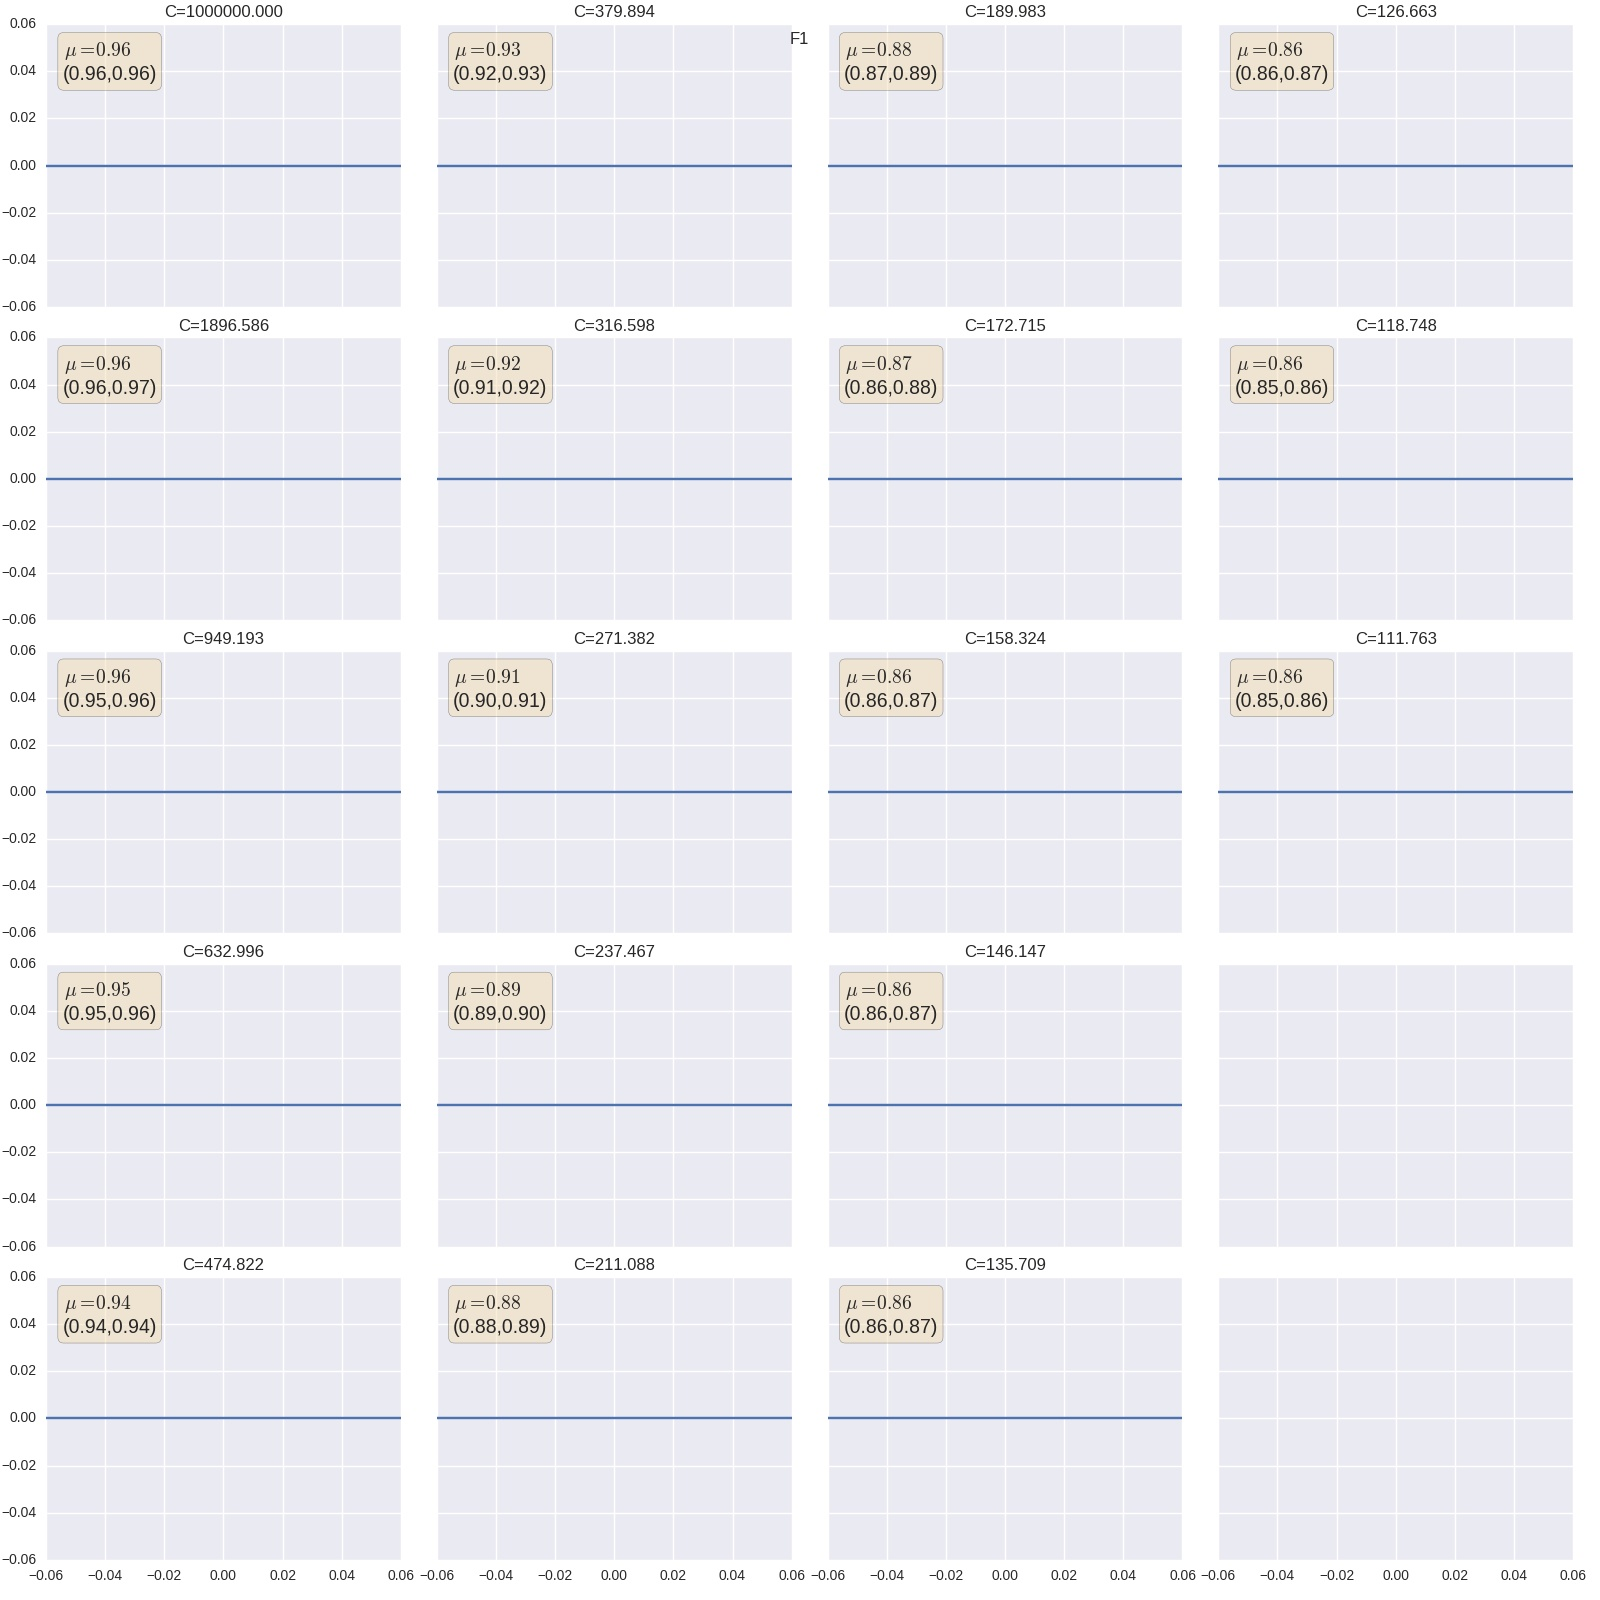
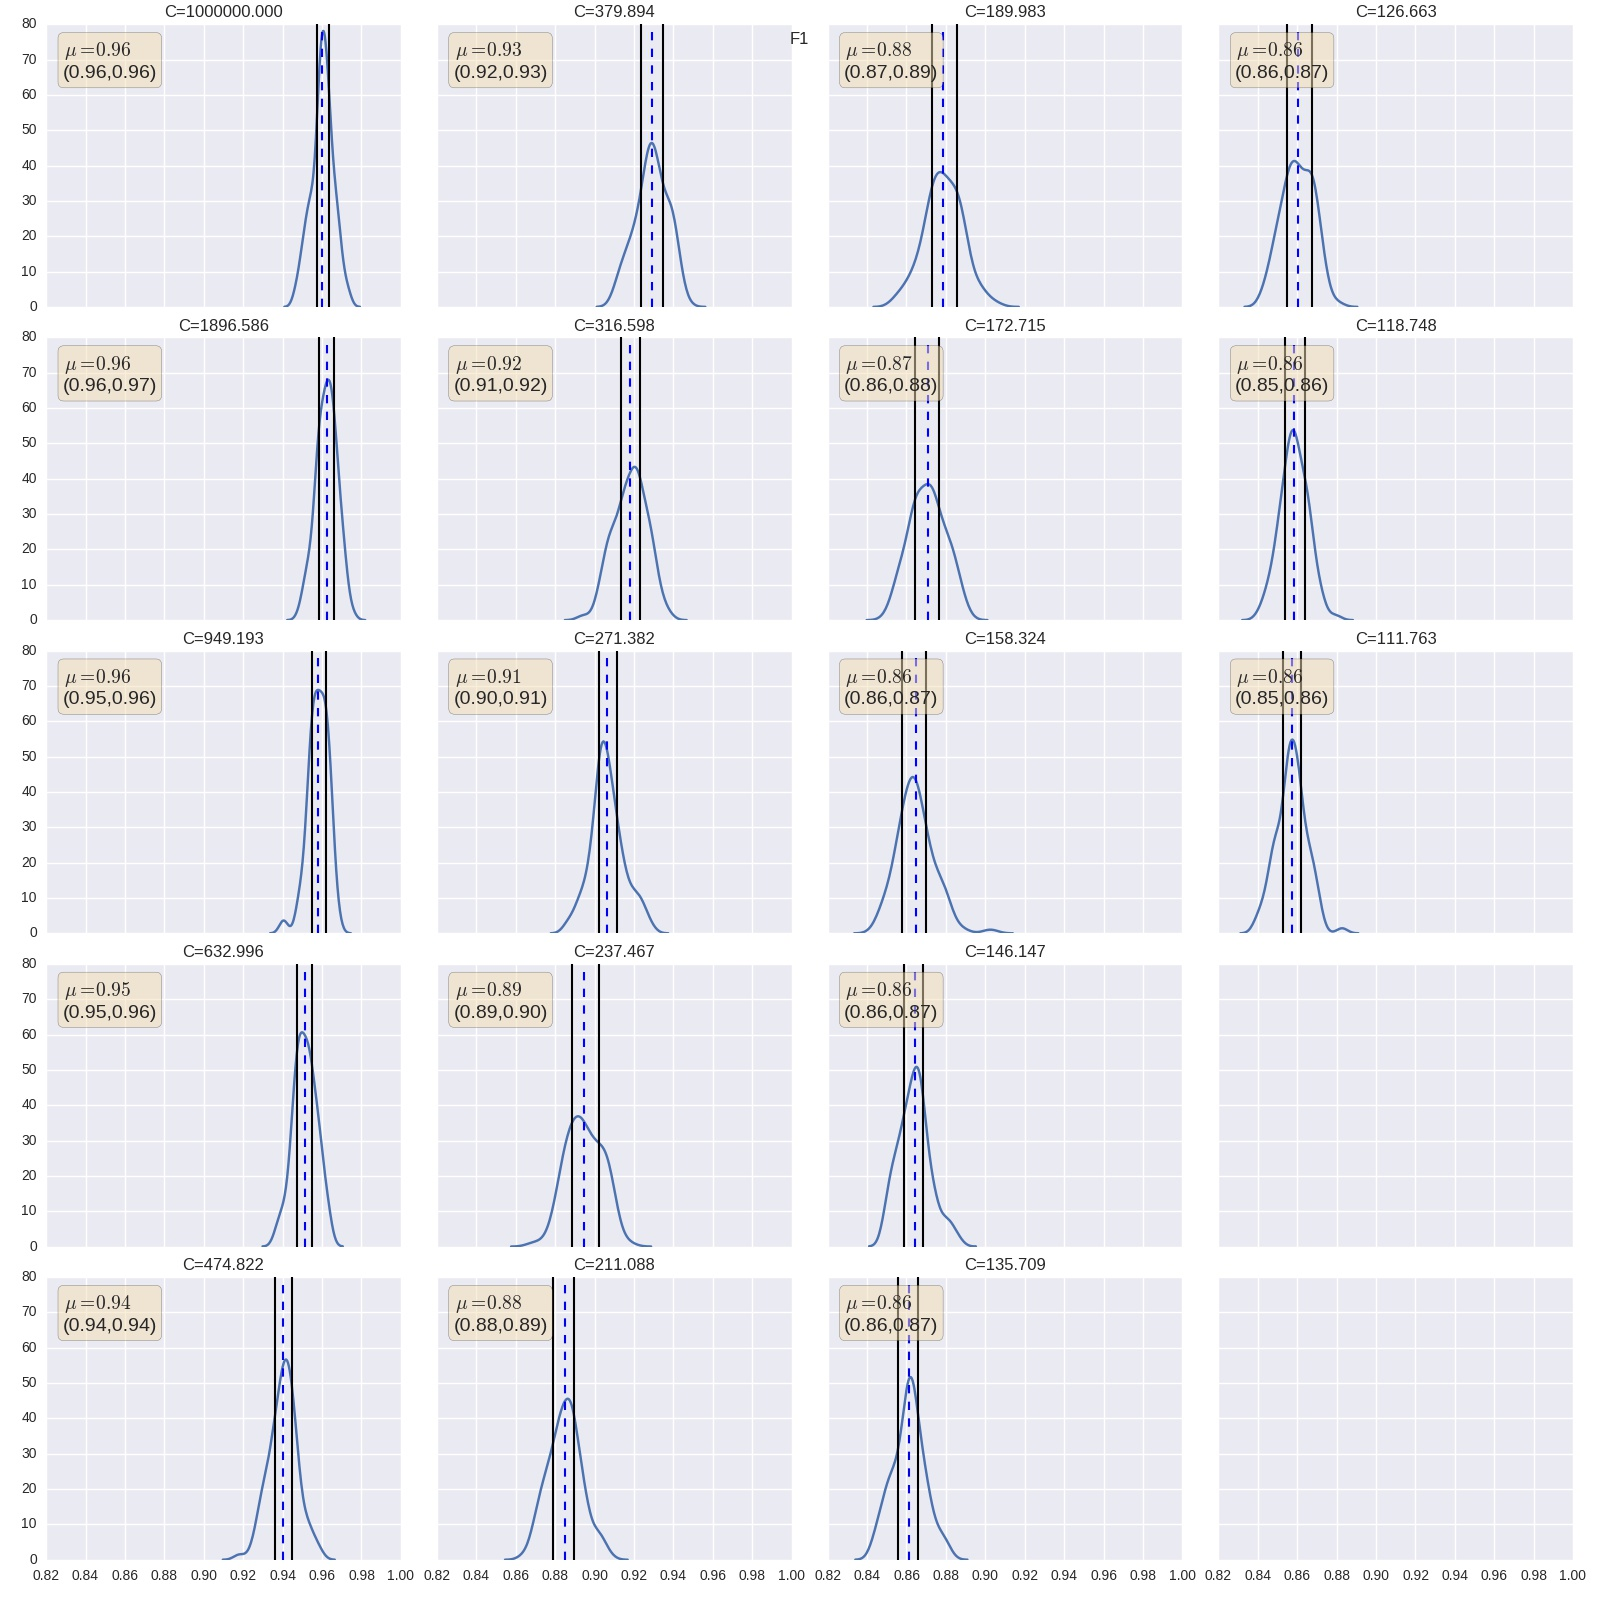
Plots

diff --git a/code/results/results.py b/code/results/results.py
@@ -83,77 +83,44 @@ for nu,fi in fil:
 		prec_precentile.append((np.percentile(precision,25),np.percentile(precision,75)))
 		rec_precentile.append((np.percentile(recall,25),np.percentile(recall,75)))
 		# Focus_3 
-		'''
-		axf[nu%5][nu/5].set_title('Alpha ' + str(alpha))
-		axa[nu%5][nu/5].set_title('Alpha ' + str(alpha))
-		axp[nu%5][nu/5].set_title('Alpha ' + str(alpha))
-		axr[nu%5][nu/5].set_title('Alpha ' + str(alpha))
-		'''
-		
-		
-		'''
-		sns.kdeplot(accuracy,ax=axa[nu%5][nu/5])
-		sns.kdeplot(precision,ax=axf[nu%5][nu/5])
-		sns.kdeplot(recall,ax=axf[nu%5][nu/5])
-		'''
-		# This for focus_2
-		'''
-		f, ax1 = P.subplots(4,figsize=(8, 8),sharex=True)
-		title = 'Alpha ' + str(alpha)
-		P.suptitle(title)
-		sns.kdeplot(f1,shade=True,ax=ax1[0])
-		#ax[0].hist(f1,range=(.75,.98))
-		ax1[0].set_title('F1 Measure')
 
-		sns.kdeplot(accuracy,ax=ax1[1])
-		#ax[1].hist(accuracy,range=(.75,.98))
-		ax1[1].set_title('accuracy')
-
-		sns.kdeplot(precision,ax=ax1[2])
-		#ax[2].hist(precision,range=(.75,.98))
-		ax1[2].set_title('precision')
-
-		sns.kdeplot(recall,ax=ax1[3])
-		#ax[3].hist(recall,range=(.75,.98))
-		ax1[3].set_title('recall')
-		out = "results_focus_2/alpha_" + str(alpha) + ".png"
-		P.savefig(out)
-		'''
-'''
-out = "results_focus_3/recall.jpg"
-P.savefig(out)
-out = "results_focus_3/precision.jpg"
-P.savefig(out)
-out = "results_focus_3/accuracy.jpg"
-P.savefig(out)'''
 All 			= (f1_t,acc_t,prec_t,rec_t)
 All_mean 		= (f1_mean_t,acc_mean_t,prec_mean_t,rec_mean_t)
 All_precentiles = (f1_precentile,acc_precentile,prec_precentile,rec_precentile)
 for x in range(0,4):
-	print 'x = ', x
+	print check(x)
+	if x == 3:
+		f, axf 		= P.subplots(3,3,figsize=(16,16),sharex='all',sharey='all',squeeze=False)
+		num_vals = range(0,8)
+		num = 3
+	else:
+		f, axf 		= P.subplots(5,4,figsize=(16,16),sharex='all',sharey='all',squeeze=False)	
+		num_vals = range(0,18)
+		num = 5
 	now 		= All[x]
-	f, axf 		= P.subplots(5,4,figsize=(16,16),sharex='all',sharey='all',squeeze=False)
+	#f, axf 		= P.subplots(5,4,figsize=(16,16),sharex='all',sharey='all',squeeze=False)
 	P.suptitle(check(x))
 	P.tight_layout()
 	now_mean 	= All_mean[x]
 	now_precent = All_precentiles[x]
-	for y in range(0,18):
+	for y in num_vals:
 		cu = now[y]
-		print 'y =',y,np.min(cu),np.max(cu)
-		sns.kdeplot(cu,ax=axf[y%5][y/5])
-		print "Here?"
-		axf[y%5][y/5].axvline(now_mean[y], ls="--", linewidth=1.5)
-		axf[y%5][y/5].axvline(now_precent[y][0], ls="-", linewidth=1.5,color="black")
-		axf[y%5][y/5].axvline(now_precent[y][1], ls="-", linewidth=1.5,color="black")
-		axf[y%5][y/5].set_title("C="+"%.3f" % (float(Alpha_vals[y])**-1))
+		print 'y =',y,'min value = ', np.min(cu),'max value = ', np.max(cu),'mean =', now_mean[y]
+		
+		sns.kdeplot(cu,ax=axf[y%num][y/num])
+		axf[y%num][y/num].axvline(now_mean[y], ls="--", linewidth=1.5)
+		axf[y%num][y/num].axvline(now_precent[y][0], ls="-", linewidth=1.5,color="black")
+		axf[y%num][y/num].axvline(now_precent[y][1], ls="-", linewidth=1.5,color="black")
+		axf[y%num][y/num].set_title("C="+"%.3f" % (float(Alpha_vals[y])**-1))
 		text = '$\mu=%.2f$\n(%.2f,%.2f)'%(float(now_mean[y]), float(now_precent[y][0]),float(now_precent[y][1]))
 		props = dict(boxstyle='round', facecolor='wheat', alpha=0.5)
-		axf[y%5][y/5].text(0.05, 0.95, text, transform=axf[y%5][y/5].transAxes, fontsize=14,
-        verticalalignment='top', bbox=props)
-        print 'Done!'
+		axf[y%num][y/num].text(0.05, 0.95, text, transform=axf[y%num][y/num].transAxes, fontsize=14,
+	    verticalalignment='top', bbox=props)
+	    #print 'Done!'
 		#axf[y%5][y/5].set_title("C="+str(Alpha_vals[y]))
 	out = "../../Athvs.All/results_T/" + check(x) + ".jpg"
 	P.savefig(out)
+	P.close(out)
 
 def check(x):
 	if x == 0:
